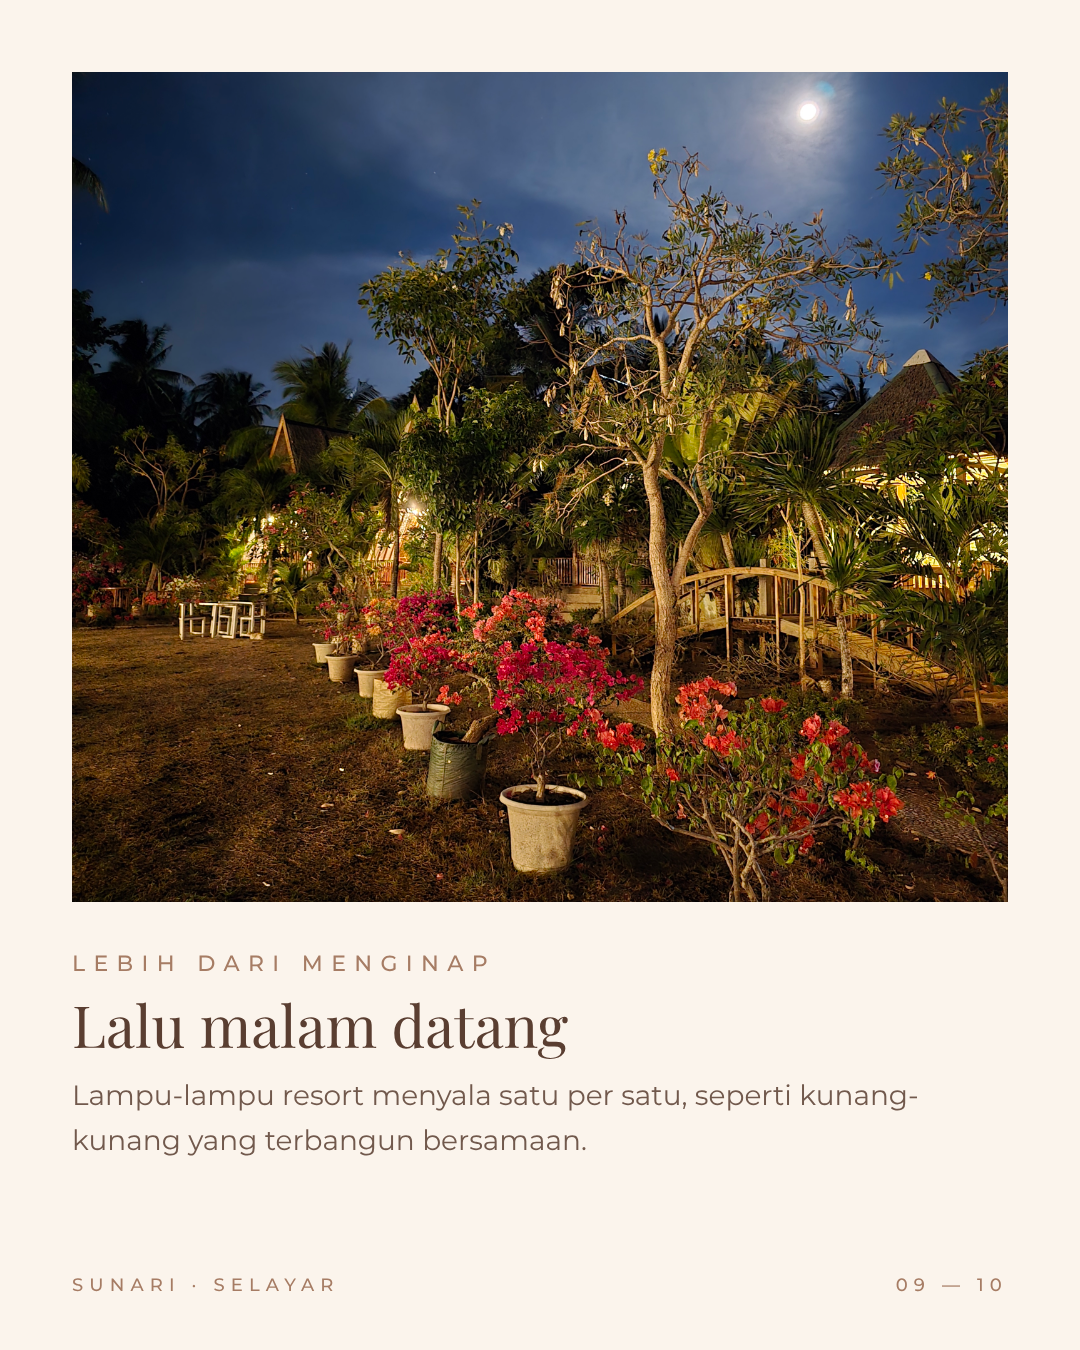
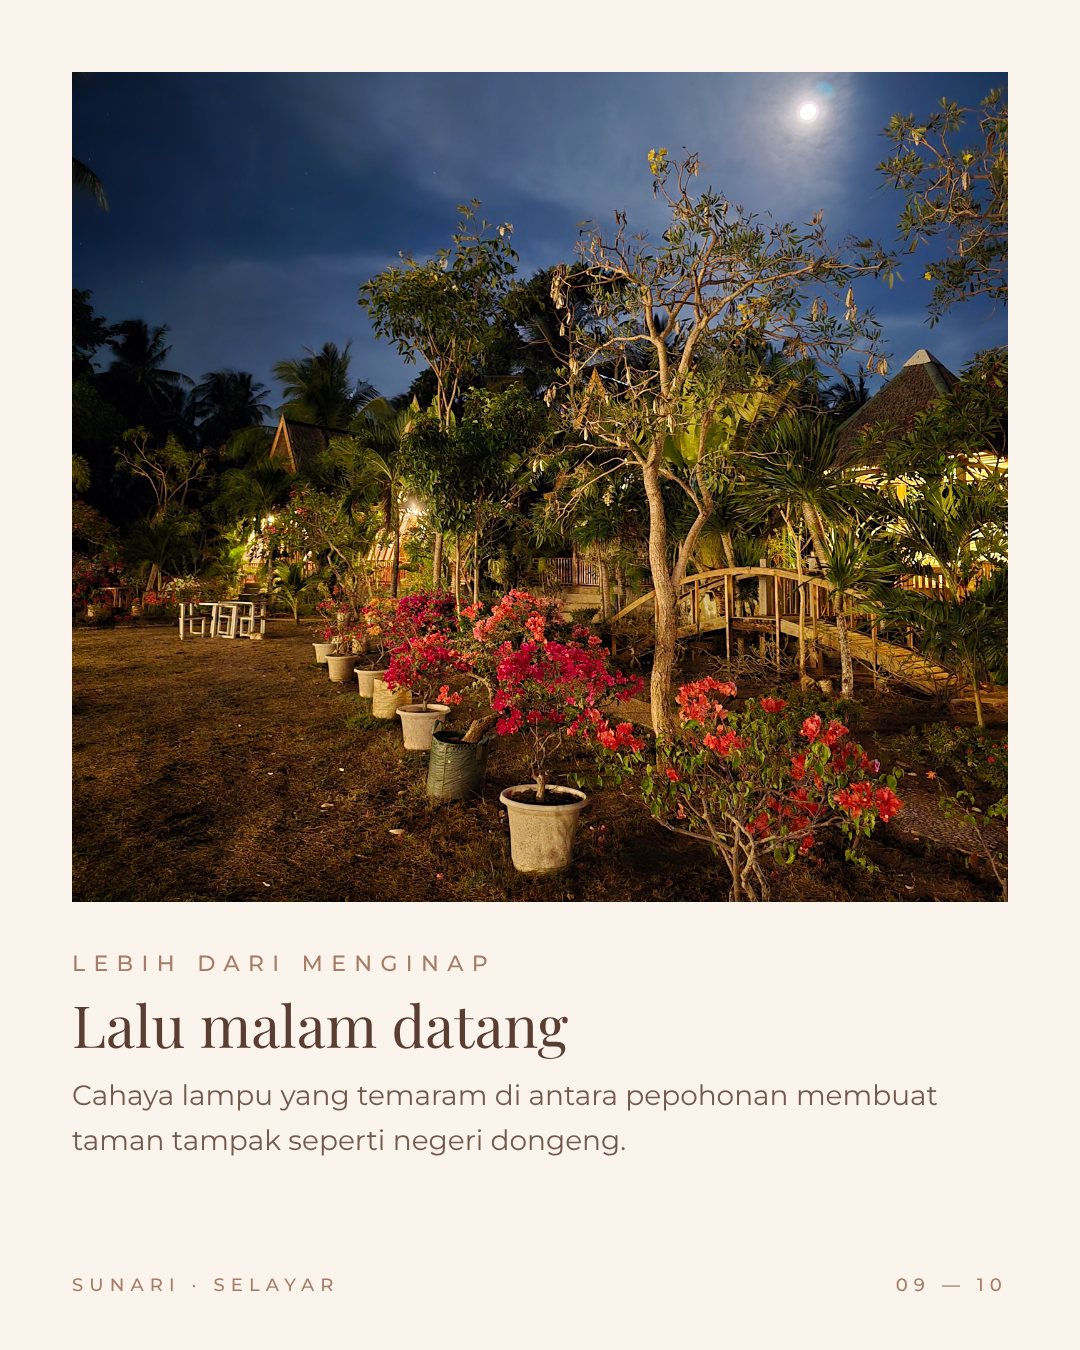
Lebih dari Menginap: deskripsi slide 9 dari Taman no. 48
Claude-Session: https://claude.ai/code/session_01KeLc5cK8xRmfcoMz1j2mcH

Changed region(s): [[0.0611, 0.8089, 0.8556, 0.8711]]

diff --git a/social/kit.html b/social/kit.html
@@ -603,7 +603,7 @@ body{background:#ddd6cc;font-family:Montserrat,sans-serif;padding:40px;display:f
 </div>
 <div class="tpl" id="p01-9">
   <img class="ph" src="../assets/photos/malam/19-taman-bulan-jembatan.jpg" style="object-position:50% 55%" alt="">
-  <div class="txt"><div class="caps">Lebih dari Menginap</div><h2>Lalu malam datang</h2><p>Lampu-lampu resort menyala satu per satu, seperti kunang-kunang yang terbangun bersamaan.</p></div>
+  <div class="txt"><div class="caps">Lebih dari Menginap</div><h2>Lalu malam datang</h2><p>Cahaya lampu yang temaram di antara pepohonan membuat taman tampak seperti negeri dongeng.</p></div>
   <div class="foot"><span class="caps">SunaRi · Selayar</span><span class="caps">09 — 10</span></div>
 </div>
 <div class="tpl facts" id="p01-10">

diff --git a/social/build_kit.py b/social/build_kit.py
@@ -378,7 +378,7 @@ FEED12 = [
    ("aktivitas/07-ayunan-gaun-merah-tengah.jpg","50% 60%","Ayunan menghadap senja","Menunggu senja di Sunari mengajarkan saya bahwa hal indah memang layak ditunggu."),
    ("senja/05-tamu-di-meja.jpg","50% 55%","Duduk, diam, menikmati","Saya tidak butuh motivasi panjang, saya hanya butuh satu sore di tepi pantai Sunari."),
    ("resto/04-resto-malam-pohon-kelapa.jpg","50% 70%","Makan malam di bawah pohon kelapa","Aroma ikan bakar segar memenuhi udara malam, membuat perut kami langsung keroncongan."),
-   ("malam/19-taman-bulan-jembatan.jpg","50% 55%","Lalu malam datang","Lampu-lampu resort menyala satu per satu, seperti kunang-kunang yang terbangun bersamaan.")],
+   ("malam/19-taman-bulan-jembatan.jpg","50% 55%","Lalu malam datang","Cahaya lampu yang temaram di antara pepohonan membuat taman tampak seperti negeri dongeng.")],
    ("Lebih dari menginap", ["5 tipe bungalow dengan teras pribadi","Sarapan, AC &amp; Wi-Fi di semua kamar","Senja tepat di depan Pantai Sunari"])),
  ("p02", "#SenjaHariIni", "feed-senja", [
    ("senja/70-perahu-nelayan-daun-kelapa.jpg","50% 50%","Perahu pulang saat senja","Nelayan melintas pelan, di bawah matahari yang mulai turun."),

diff --git a/social/feed-12-carousel/01-lebih-dari-menginap/CAPTION.md b/social/feed-12-carousel/01-lebih-dari-menginap/CAPTION.md
@@ -13,4 +13,4 @@ Kalau kamu butuh jeda dari hiruk-pikuk hidup, mungkin senja di Sunari sudah menu
 
 ---
 Sumber kalimat (brand/storytelling/): Senja no. 73 & 81 · Pagi no. 74 · Taman no. 25 · Senja Vol. 2 no. 5 · Malam no. 4, 7 & 32.
-Teks slide: Pagi 71 · Taman 2 · Taman 25 · Senja Vol. 2 no. 6 · Senja Vol. 2 no. 5 · Senja 39 · Malam 32 · Malam 4.
+Teks slide: Pagi 71 · Taman 2 · Taman 25 · Senja Vol. 2 no. 6 · Senja Vol. 2 no. 5 · Senja 39 · Malam 32 · Taman 48.
